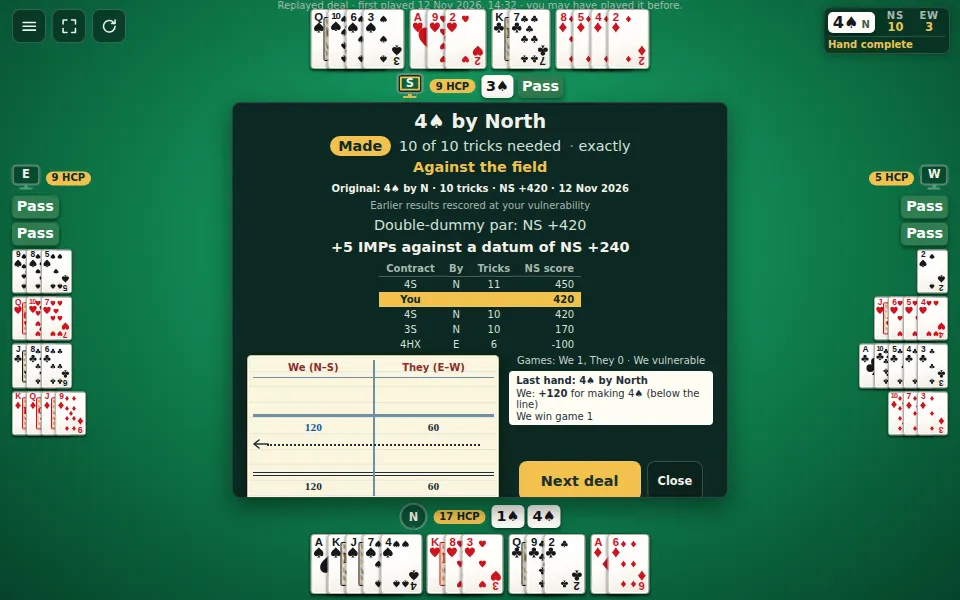
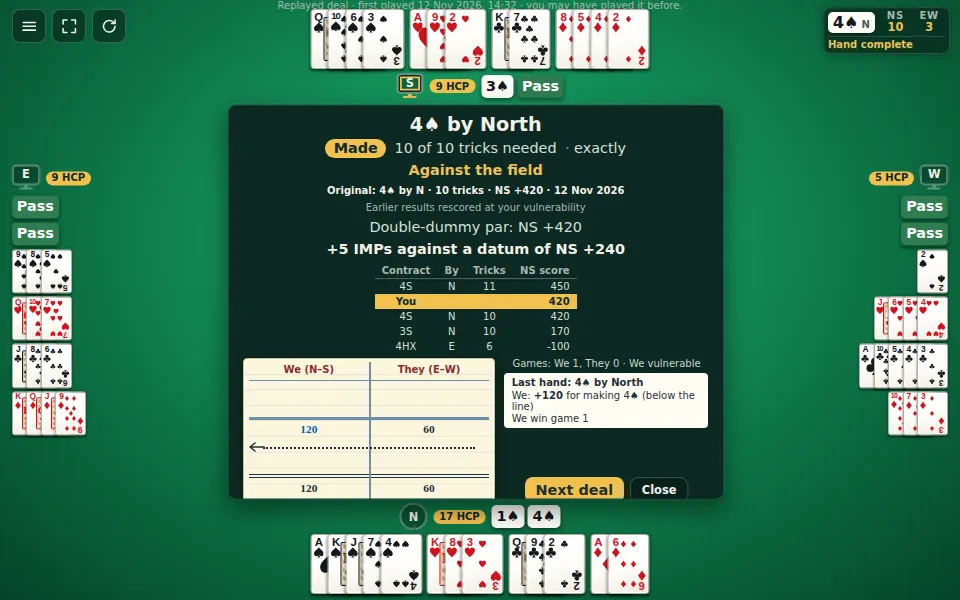
Keep the result panel clear of every seat; highlight a won rubber
The table measures all four seats when hands are face-up and centres the
result panel between them, so long seat labels (name, away, HCP) are no
longer covered. The rubber winner sits on a gold banner that pulses, then
stays lit; a won rubber's five buttons take a row under the card.

Changed region(s): [[0.2188, 0.15, 0.7812, 0.84]]

diff --git a/apps/client/src/styles.css b/apps/client/src/styles.css
@@ -312,7 +312,11 @@ button.dummy-card { cursor: pointer; transition: transform .12s ease; }
 .hands-revealed .pos-right > .seat-auction-calls { justify-content: flex-end; }
 .hands-revealed .pos-left .dummy-table-hand, .hands-revealed .pos-right .dummy-table-hand { --h: var(--side-h); --step: var(--side-step); }
 .hcp-badge { flex: none; border-radius: 999px; padding: calc(.25 * var(--u)) calc(1 * var(--u)); background: var(--gold); color: var(--deep); font-size: var(--text-s); font-weight: 800; white-space: nowrap; }
-.hands-revealed .score-panel { z-index: 5; gap: var(--u); min-width: 0; width: max-content; max-width: calc(100% - 2 * (var(--side-room) + 2 * var(--u))); padding: calc(2 * var(--u)) calc(3 * var(--u)); --side-room: calc(4 * var(--u) + var(--side-h) * .7 + 4 * var(--side-step)); }
+.hands-revealed .score-panel { z-index: 5; gap: var(--u); min-width: 0; width: max-content; padding: calc(2 * var(--u)) calc(3 * var(--u));
+  /* Centred in the room between the side seats (as measured by the table, labels and all), with a margin either side. */
+  --side-room: calc(4 * var(--u) + var(--side-h) * .7 + 4 * var(--side-step) + .5 * var(--u));
+  --room-left: var(--measured-left-room, var(--side-room)); --room-right: var(--measured-right-room, var(--side-room));
+  left: calc((var(--room-left) + 100% - var(--room-right)) / 2); max-width: calc(100% - var(--room-left) - var(--room-right) - 3 * var(--u)); }
 .result-totals { font-size: var(--text-m) !important; }
 .result-actions { display: flex; flex-wrap: wrap; justify-content: center; gap: var(--u); }
 .online-result .contract-outcome { display: flex; flex-wrap: wrap; gap: 6px 12px; align-items: baseline; margin: 0; }
@@ -323,7 +327,6 @@ button.dummy-card { cursor: pointer; transition: transform .12s ease; }
   .hands-revealed .pos-top { top: calc(21 * var(--u)); }
   .hands-revealed .pos-bottom { bottom: calc(2 * var(--u)); }
   .hands-revealed .pos-left, .hands-revealed .pos-right { top: 44%; }
-  .hands-revealed .score-panel { top: 73%; max-width: calc(100% - 4 * var(--u)); }
 }
 
 /* ---------- Card backs at hidden seats ---------- */
@@ -401,7 +404,13 @@ button.dummy-card { cursor: pointer; transition: transform .12s ease; }
 .scorecard { --pad-ink: #1f2f3a; --rule: #6f8fa6; --paper: #fbf6df; display: grid; gap: calc(.8 * var(--u)); width: min(100%, calc(52 * var(--u))); min-width: min(260px, 100%); color: #d6e0d8; text-align: center; }
 .scorecard .pad-status { margin: 0; color: #c9d6cc; font-size: var(--text-s); }
 .pad-result { display: grid; gap: 2px; }
-.pad-result h3 { margin: 0; color: var(--gold); font: 800 var(--text-l)/1.2 system-ui, sans-serif; }
+/* The rubber's winner stands out on a gold banner that pulses a few times when the rubber ends, then stays lit. */
+.pad-result h3 { margin: 0; border: 2px solid var(--gold); border-radius: 8px; padding: calc(.4 * var(--u)) calc(1 * var(--u)); background: rgba(240, 190, 60, .18); color: var(--gold); font: 800 var(--text-l)/1.2 system-ui, sans-serif; box-shadow: 0 0 calc(1.6 * var(--u)) rgba(240, 190, 60, .45); animation: rubber-won-pulse 1.1s ease-in-out 6; }
+.pad-result-games { white-space: nowrap; }
+@keyframes rubber-won-pulse {
+  50% { background: var(--gold); color: #1d2a12; box-shadow: 0 0 calc(3 * var(--u)) rgba(240, 190, 60, .9); }
+}
+@media (prefers-reduced-motion: reduce) { .pad-result h3 { animation: none; } }
 .pad-result p { margin: 0; font-size: var(--text-m); }
 .pad { position: relative; display: grid; border: 1px solid #c9bf94; border-radius: 4px; padding: calc(.6 * var(--u)) calc(.8 * var(--u)); background: var(--paper) repeating-linear-gradient(transparent 0 calc(2.6 * var(--u) - 1px), rgba(111, 143, 166, .14) calc(2.6 * var(--u) - 1px) calc(2.6 * var(--u))); color: var(--pad-ink); box-shadow: 0 calc(.6 * var(--u)) calc(1.6 * var(--u)) #0006, inset 0 0 0 1px #fffbe8; font: 600 var(--text-m)/1.35 "Segoe Print", "Bradley Hand", "Comic Sans MS", "Chalkboard SE", cursive; font-variant-numeric: tabular-nums; }
 .pad-row { display: grid; grid-template-columns: 1fr 1fr; }
@@ -436,17 +445,22 @@ button.dummy-card { cursor: pointer; transition: transform .12s ease; }
 .score-panel.scorecard-panel { max-height: calc(100% - 4 * var(--u)); overflow-y: auto; overscroll-behavior: contain; background: #0c2822; }
 /* With the deal face-up, the result panel stays in the band between the north and south hands so neither seat head
    (nor its HCP badge) is covered: the pad sits beside the status, the last hand's points and the buttons. */
-.hands-revealed .score-panel { --edge-band: calc(var(--edge-h) + 7 * var(--u)); max-height: calc(100% - 2 * var(--edge-band)); overflow-y: auto; overscroll-behavior: contain; }
+.hands-revealed .score-panel { --edge-band: calc(var(--edge-h) + 7 * var(--u)); overflow-y: auto; overscroll-behavior: contain;
+  --room-top: var(--measured-top-room, var(--edge-band)); --room-bottom: var(--measured-bottom-room, var(--edge-band));
+  top: calc((var(--room-top) + 100% - var(--room-bottom)) / 2); max-height: calc(100% - var(--room-top) - var(--room-bottom) - var(--u)); }
 .hands-revealed .score-panel.scorecard-panel { gap: calc(.6 * var(--u)); padding: calc(1.4 * var(--u)) calc(2.4 * var(--u)); }
 .hands-revealed .scorecard-panel h2 { font-size: max(18px, calc(3.2 * var(--u))); }
-.hands-revealed .scorecard-panel .scorecard { grid-template-columns: minmax(calc(32 * var(--u)), calc(42 * var(--u))) minmax(calc(26 * var(--u)), calc(34 * var(--u))); grid-template-rows: auto auto 1fr; grid-template-areas: "pad status" "pad breakdown" "pad actions"; align-items: start; column-gap: calc(1.6 * var(--u)); width: auto; }
+.hands-revealed .scorecard-panel .scorecard { grid-template-columns: minmax(calc(24 * var(--u)), calc(42 * var(--u))) minmax(calc(22 * var(--u)), calc(34 * var(--u))); grid-template-rows: auto auto 1fr; grid-template-areas: "pad status" "pad breakdown" "pad actions"; align-items: start; column-gap: calc(1.6 * var(--u)); width: auto; }
 .hands-revealed .scorecard-panel .pad { grid-area: pad; }
 .hands-revealed .scorecard-panel .pad-status, .hands-revealed .scorecard-panel .pad-result { grid-area: status; }
 .hands-revealed .scorecard-panel .pad-breakdown { grid-area: breakdown; }
 .hands-revealed .scorecard-panel .pad-actions { grid-area: actions; align-self: end; }
+/* A won rubber offers five ways on, too many for the narrow column: they take a row under the whole card. */
+.hands-revealed .scorecard-panel .scorecard-final { grid-template-rows: auto 1fr auto; grid-template-areas: "pad status" "pad breakdown" "actions actions"; }
+.hands-revealed .scorecard-panel .scorecard-final .pad-actions { align-self: start; }
+.hands-revealed .scorecard-panel .pad-actions > button { min-height: 0; padding: calc(.9 * var(--u)) calc(1.8 * var(--u)); }
 /* Tall, narrow windows put the panel below the side hands, with room to stack the scorecard in one column. */
 @media (max-aspect-ratio: 4/5) {
-  .hands-revealed .score-panel { max-height: calc(100% - 4 * var(--u)); }
   .hands-revealed .scorecard-panel .scorecard { grid-template-columns: none; grid-template-rows: none; grid-template-areas: none; width: min(100%, calc(52 * var(--u))); }
   .hands-revealed .scorecard-panel .scorecard > * { grid-area: auto; }
 }

diff --git a/apps/client/src/table/TableView.tsx b/apps/client/src/table/TableView.tsx
@@ -1,4 +1,4 @@
-import { useEffect, useRef, type CSSProperties } from "react";
+import { useEffect, useLayoutEffect, useRef, type CSSProperties } from "react";
 import { cardId, SUITS, trickWinner, tricksWonBySide, type Bid, type Card, type Seat, type TrickCard } from "@contractplay/core";
 import type { PublicGame } from "@contractplay/protocol";
 import { highCardPoints } from "@contractplay/bots";
@@ -81,6 +81,9 @@ const tableWatermark = <svg className="table-watermark" viewBox="0 0 240 240" ar
   <text x="120" y="50">♠</text><text x="212" y="132">♥</text><text x="120" y="214">♦</text><text x="28" y="132">♣</text>
 </svg>;
 
+
+/** The narrowest result panel worth fitting between the side seats rather than laying over them, in pixels. */
+const MIN_PANEL_WIDTH = 320;
 /** The bridge table: status, seats with their calls and dummy, the trick, the bid picker, and the hand zone. */
 export function TableView({
   game, bottomSeat, actingSeat, displayedTrick, showCalls, onToggleCalls, lastTrickOpen, onToggleLastTrick, showBottomHand, fixedSeatHands = false, showBacksAtBottom = false, exposedSeat,
@@ -103,6 +106,31 @@ export function TableView({
   const dummyPosition = dummySeat ? tablePositions[(seats.indexOf(dummySeat) - seats.indexOf(bottomSeat) + 4) % 4]! : undefined;
   const dummyVisible = !!contract && (game.currentTrick.length > 0 || game.completedTricks.length > 0 || phase === "complete");
   const revealed = revealedHands && (phase === "complete" || phase === "passed-out") ? revealedHands : undefined;
+  const surfaceRef = useRef<HTMLDivElement>(null);
+  // With every hand face-up, the result panel must stay clear of all four seats: their names, tags, high-card points
+  // and calls as well as their cards. The CSS estimates the room from the card sizes; this measures what is there.
+  useLayoutEffect(() => {
+    const surface = surfaceRef.current;
+    if (!revealed || !surface) return;
+    const measure = () => {
+      const bounds = surface.getBoundingClientRect();
+      const seat = (position: string) => surface.querySelector(`.pos-${position}`)?.getBoundingClientRect();
+      const [top, right, bottom, left] = [seat("top"), seat("right"), seat("bottom"), seat("left")];
+      const rooms = { top: top ? top.bottom - bounds.top : 0, right: right ? bounds.right - right.left : 0,
+        bottom: bottom ? bounds.bottom - bottom.top : 0, left: left ? left.right - bounds.left : 0 };
+      // A phone held upright has no usable room between the side hands; there the panel spans the table over them.
+      if (bounds.width - rooms.left - rooms.right < MIN_PANEL_WIDTH) rooms.left = rooms.right = 0;
+      for (const [side, room] of Object.entries(rooms)) surface.style.setProperty(`--measured-${side}-room`, `${Math.ceil(Math.max(0, room))}px`);
+    };
+    measure();
+    const observer = typeof ResizeObserver === "undefined" ? undefined : new ResizeObserver(measure);
+    observer?.observe(surface);
+    for (const seat of surface.querySelectorAll(".seat")) observer?.observe(seat);
+    return () => {
+      observer?.disconnect();
+      for (const side of ["top", "right", "bottom", "left"]) surface.style.removeProperty(`--measured-${side}-room`);
+    };
+  });
   const fixedPlayHands = fixedSeatHands && liveTurnPhase(phase);
   // A dummy at a side seat is a column as wide as its longest suit; the bottom hand is laid out beside it.
   const sideDummy = fixedPlayHands && dummyVisible && dummySeat && (dummyPosition === "left" || dummyPosition === "right") ? dummyPosition : undefined;
@@ -132,7 +160,7 @@ export function TableView({
 
   return (
     <section className={`table-panel${dealing ? " dealing" : ""}`} aria-label={ariaLabel}>
-      <div className={`table-surface ${revealed ? "hands-revealed" : ""} ${phase === "play" && showCalls ? "calls-shown" : ""} ${sideDummy ? `dummy-on-${sideDummy}` : ""} ${handOnTop ? "hand-on-top" : ""}`} style={sideDummySpan ? { "--dummy-span": sideDummySpan } as CSSProperties : undefined}>
+      <div ref={surfaceRef} className={`table-surface ${revealed ? "hands-revealed" : ""} ${phase === "play" && showCalls ? "calls-shown" : ""} ${sideDummy ? `dummy-on-${sideDummy}` : ""} ${handOnTop ? "hand-on-top" : ""}`} style={sideDummySpan ? { "--dummy-span": sideDummySpan } as CSSProperties : undefined}>
         {tableWatermark}
         <div className={`table-status${contract ? " has-contract" : ""}`}>
           {contract ? <button style={{ gridRow: `1 / span ${1 + (contract ? 1 : 0) + (matchScore ? 1 : 0)}` }} className="contract-badge" type="button" disabled={phase !== "play"} aria-expanded={showCalls} aria-label={`${showCalls ? "Hide" : "Show"} auction, ${game.auction.length} calls. Contract ${callLabel(`${contract.level}${contract.strain}` as Bid)} by ${seatNames[contract.declarer]}`} title={phase === "play" ? `${showCalls ? "Hide" : "Show"} the bidding` : undefined} onClick={onToggleCalls}>

diff --git a/apps/client/src/mocks/scenarios.ts b/apps/client/src/mocks/scenarios.ts
@@ -238,12 +238,14 @@ const onlineScreens: readonly PreviewScreen[] = [
     }
   },
   {
-    id: "rubber-won", title: "Rubber won", detail: "North–South already have game 1 from 3NT; 4♠ makes game 2 and the rubber: the scorecard ends with the 700 rubber bonus, the final score, and Deal a new rubber, Seating, Back to lobby, or Leave the table.",
+    id: "rubber-won", title: "Rubber won", detail: "North–South already have game 1 from 3NT; 4♠ makes game 2 and the rubber: the winner pulses on a gold banner, and the scorecard ends with the 700 rubber bonus, the final score, and Deal a new rubber, Seating, Back to lobby, or Leave the table. The panel keeps clear of West (Annabelle, away) and their points.",
     build: () => {
-      const people: People = { north: "Alex" };
+      // West is a person who has stepped away: their name, tag and points make the widest seat label, which the
+      // result panel must not cover.
+      const people: People = { north: "Alex", west: "Annabelle" };
       const earlier = [scoreRubberHand("preview-3nt", { level: 3, strain: "notrump", declarer: "south", doubled: 0 }, 9, "None")];
-      const state = playUntil(bid(dealt(table("Friday club", people, others("north")), earlier), 8), (game) => game.phase === "complete");
-      return view(state, "north", people);
+      const played = playUntil(bid(dealt(table("Friday club", people, ["east", "south"]), earlier), 8), (game) => game.phase === "complete");
+      return view(run(played, { type: "disconnect", player: player("west"), at: AT }), "north", people);
     }
   },
   {

diff --git a/apps/client/src/mocks/Previews.test.tsx b/apps/client/src/mocks/Previews.test.tsx
@@ -147,6 +147,13 @@ const expectations: Record<string, () => Promise<void> | void> = {
     expect(within(card).getAllByRole("img", { name: /to N–S$/ })).toHaveLength(2);
     expect(within(card).getByRole("region", { name: "Last hand's points" }).textContent).toMatch(/N–S win game 2[\s\S]*\+700 rubber bonus/);
     for (const name of ["Deal a new rubber", "Seating", "Back to lobby", "Leave the table", "Close"]) expect(within(card).getByRole("button", { name })).toBeTruthy();
+    // The winner sits on its own banner (it pulses in the stylesheet), with the games score kept on one line.
+    expect(within(card).getByRole("heading", { name: "N–S win the rubber 2–0" }).querySelector(".pad-result-games")?.textContent).toBe("2–0");
+    // West, a person who has stepped away, keeps the widest seat label; the table measures every seat so the panel
+    // can be placed clear of them all.
+    expect(screen.getByText("Annabelle")).toBeTruthy();
+    const surface = document.querySelector<HTMLElement>(".table-surface.hands-revealed")!;
+    for (const side of ["top", "right", "bottom", "left"]) expect(surface.style.getPropertyValue(`--measured-${side}-room`)).toMatch(/^\d+px$/);
   },
   "duplicate-session": () => {
     expect(document.querySelector(".session-progress")?.textContent).toBe("Board 3 complete · waiting for other tables · Place 1 of 4 · 66.7% matchpoints");

diff --git a/apps/client/src/table/Scorecard.tsx b/apps/client/src/table/Scorecard.tsx
@@ -98,7 +98,7 @@ export function Scorecard({ summary, hands, names = compassSideNames, passedOut 
   const lastLabel = last?.detail ? <>{contractText(last.detail.contract)} by {seatName(last.detail.contract.declarer)}</> : null;
   return <section className={`scorecard ${winner ? "scorecard-final" : ""}`} aria-label="Scorecard">
     {winner ? <header className="pad-result" role="status">
-      <h3>{names[winner].short} win the rubber {summary.gamesWon[winner]}–{summary.gamesWon[other(winner)]}</h3>
+      <h3>{names[winner].short} win the rubber <span className="pad-result-games">{summary.gamesWon[winner]}–{summary.gamesWon[other(winner)]}</span></h3>
       <p>Final score {names.NS.short} {summary.totals.NS} · {names.EW.short} {summary.totals.EW}{lead ? ` · ${names[lead].short} by ${Math.abs(summary.totals.NS - summary.totals.EW)} points` : " · level on points"}</p>
     </header> : <p className="pad-status">{status}</p>}
     <div className="pad" role="group" aria-label="Rubber scorecard">

diff --git a/CHANGES.md b/CHANGES.md
@@ -2,6 +2,7 @@
 
 ## Unreleased
 
+- **The result panel no longer covers any seat, and a won rubber stands out.** With every hand face-up at the end of a deal, the panel with the contract, scorecard and buttons used to judge the room beside it from card sizes alone, so a long seat label could end up under it. In one game, West's "Ania · away · HCP" was covered. The table now measures all four seats (cards, names, tags, high-card points and calls) and centres the panel in the space between them. On a phone held upright, where there is no room between the side hands, it spans the table over them and stays clear of the top and bottom seats. When a rubber is won, "E–W win the rubber 2–1" sits on a gold banner that pulses six times and then stays lit (steady if your system asks for reduced motion). The games score never breaks across lines, and the five buttons take a row under the whole card. Preview 15 (Rubber won) now has West as a player who has stepped away, to show it.
 - **Imported benchmark deals can no longer be watched.** Benchmark tables playing boards from an uploaded PBN file are now unlisted: they don't appear in Open tables, and a signed-in visitor who knows a table's address is refused as an observer. Before, anyone signed in could watch the auction and every card played, which revealed the uploaded deals. Tables playing generated deals can be watched as before, and imported scores stay public while their deals and play stay admin-only.
 - **Reload page button.** A ↻ **Reload page** button now sits beside the full-screen button at solo and online tables (including watching a bot benchmark), and at the right of the top bar in the lobby, seating screen, admin page, leaderboard and benchmark replays, so you can reconnect and fetch the latest without the browser's refresh (the desktop app has none). Your game is kept: solo hands are saved and online seats rejoin. It is a clockwise arrow labelled "Reload page", set apart from **Take back** in the game menu, which undoes a call or card. The README screenshots and the sign-in tour show it.
 - **Bot leaderboard in the lobby.** The Bot leaderboard link in the lobby's top bar is now a **Bot leaderboard** panel below New duplicate session, open by default. It ranks the top five bots by rating (eligible bots first, provisional ones marked) with their boards played, says when no bots are rated yet, and has a **Full leaderboard** button for the complete page.
